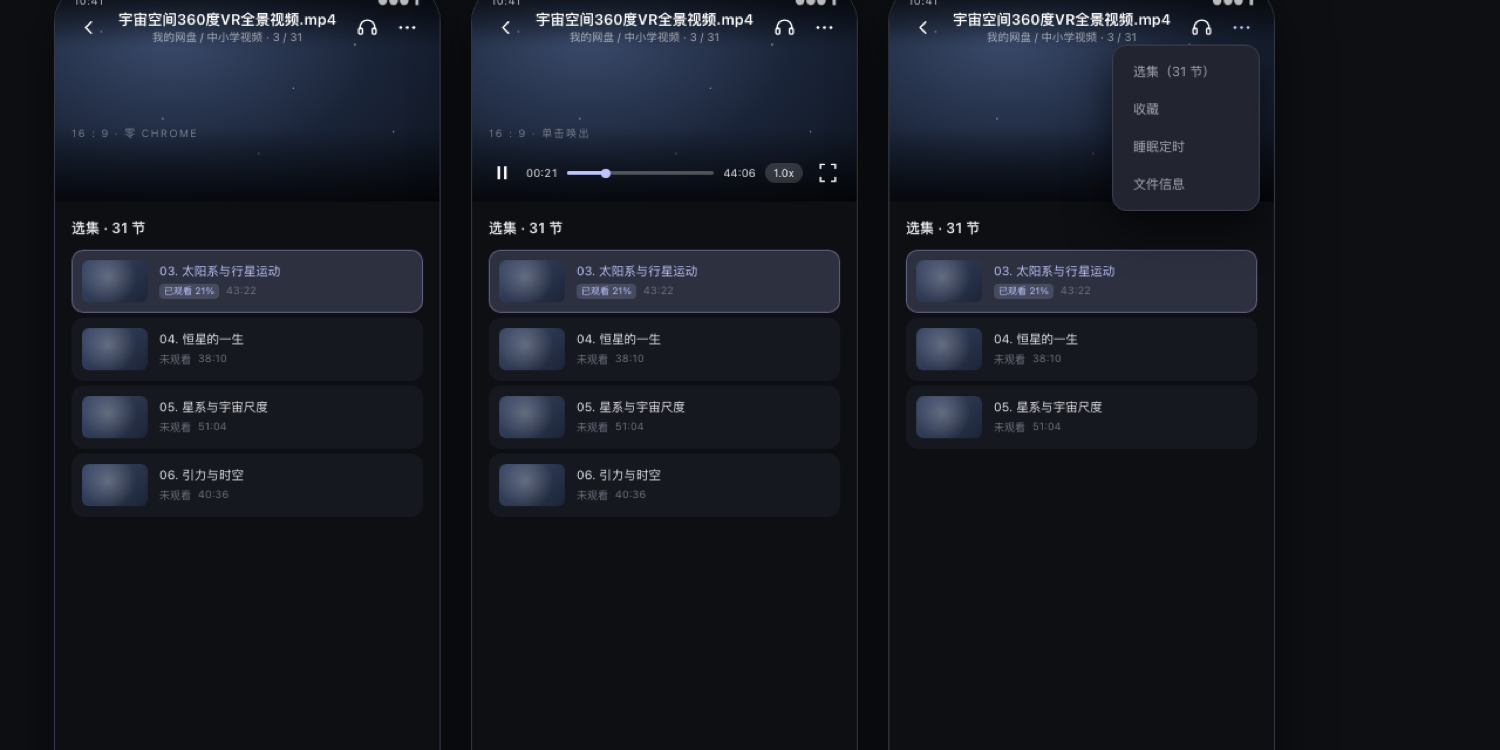
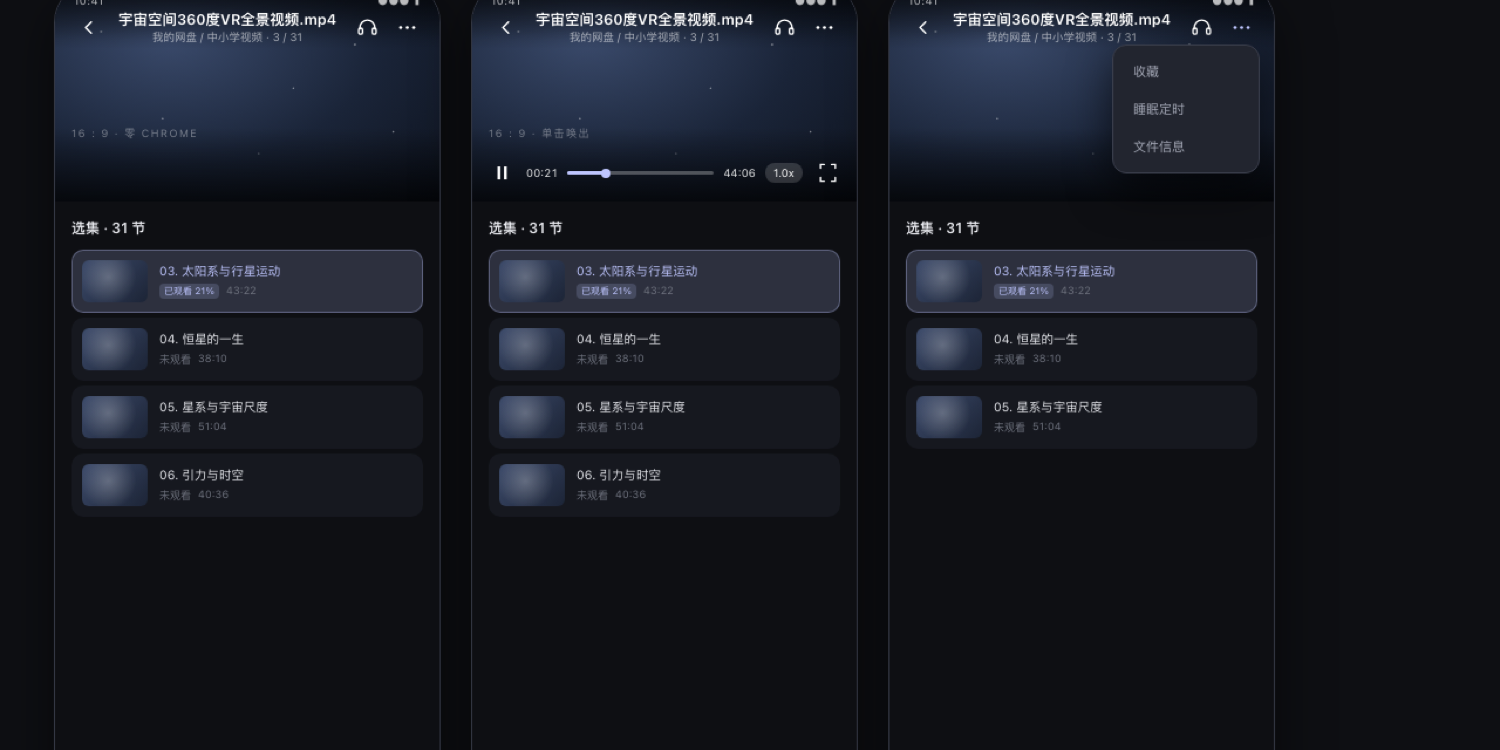
fix(prototype): 竖屏 ··· 移除重复的「选集」入口
- 竖屏画面下方课程列表已常驻，菜单再放选集是重复（与现有 courseButton 只在横屏显示的逻辑一致）
- 竖屏 ··· 只剩 收藏 / 睡眠定时 / 文件信息 三项
- 横屏无列表，选集保留在单行控制条右端（夸克横屏同位）
- 方案同步 4.1 图示、动作集合、P3、验收清单；重渲染截图

Changed region(s): [[0.736, 0.184, 0.8587, 0.3067], [0.7667, 0.092, 0.7973, 0.1533]]

diff --git a/docs/媒体页改造-新原型.html b/docs/媒体页改造-新原型.html
@@ -266,7 +266,6 @@ tr:last-child td{border-bottom:none}
         <div class="t1">正在以音频模式播放</div><div class="t2">画面已收起 · 可锁屏或切到后台继续听</div>
       </div>
       <div class="menu more-menu" id="more1">
-        <div data-menu-close>选集（31 节）</div>
         <div data-fav>收藏</div>
         <div data-menu-close>睡眠定时</div>
         <div data-menu-close>文件信息</div>
@@ -311,7 +310,6 @@ tr:last-child td{border-bottom:none}
         <div class="t1">正在以音频模式播放</div><div class="t2">画面已收起 · 可锁屏或切到后台继续听</div>
       </div>
       <div class="menu more-menu" id="more2">
-        <div data-menu-close>选集（31 节）</div>
         <div data-fav>收藏</div>
         <div data-menu-close>睡眠定时</div>
         <div data-menu-close>文件信息</div>
@@ -343,18 +341,17 @@ tr:last-child td{border-bottom:none}
         <div class="t1">正在以音频模式播放</div><div class="t2">画面已收起 · 可锁屏或切到后台继续听</div>
       </div>
       <div class="menu more-menu show" id="more3">
-        <div data-menu-close>选集（31 节）</div>
         <div data-fav>收藏</div>
         <div data-menu-close>睡眠定时</div>
         <div data-menu-close>文件信息</div>
       </div>
     </div></div>
-    <p class="cap"><b>··· 弹层</b>选集 / 收藏 / 定时 / 文件信息；转音频已提到顶栏常驻耳机</p>
+    <p class="cap"><b>··· 弹层</b>收藏 / 定时 / 文件信息；下方已有课程列表，不再放选集；转音频常驻顶栏</p>
   </div>
 </div>
 
 <h2 class="sec">二、视频 · 横屏</h2>
-<p class="sub">四槽全部叠加在画面上，控制条仍是同一行、叠在画面底部；横屏不设「转音频」（语义与看满屏互斥）。</p>
+<p class="sub">四槽全部叠加在画面上，控制条仍是同一行、叠在画面底部；横屏没有课程列表，所以「选集」保留在控制条右端；不设「转音频」（语义与看满屏互斥）。</p>
 <div class="row">
   <div class="unit" style="width:700px">
     <div class="phone land"><div class="screen controls-on" id="l1">
@@ -509,7 +506,7 @@ tr:last-child td{border-bottom:none}
 <div class="rules">
   <div class="rule"><div class="n">P1</div><h3>一屏一个主体</h3><p>视频是画面、音频是圆形封面、图片是原图。课程列表、来源/状态、多余文字全部收走。</p></div>
   <div class="rule"><div class="n">P2</div><h3>控制一行、沉到底部</h3><p>视频三行控制层压成一行并<b>叠在画面内底部</b>，不再占位；音频动作栏 + 进度 + 传输组集中在底部一坨，中间大留白。</p></div>
-  <div class="rule"><div class="n">P3</div><h3>顶栏轻、动作收进 ···</h3><p>透明 scrim + 两行标题；<b>高频的转音频常驻顶栏耳机</b>，选集/收藏/定时/文件信息进弹层。</p></div>
+  <div class="rule"><div class="n">P3</div><h3>顶栏轻、动作收进 ···</h3><p>透明 scrim + 两行标题；<b>高频的转音频常驻顶栏耳机</b>，低频的收藏/定时/文件信息进弹层；竖屏已有课程列表，不重复放入口。</p></div>
 </div>
 <table>
   <tr><th>夸克有，我们</th><th>判定</th><th>原因</th></tr>

diff --git a/docs/媒体页改造方案-基于实际能力.md b/docs/媒体页改造方案-基于实际能力.md
@@ -88,7 +88,7 @@
 |---|---|---|
 | **P1 一屏一个主体** | 视频满屏画面 / 音频唱片 / 图片原图，其余收进抽屉 | 去掉音频常驻课程列表、来源/状态两行；视频不做 Tab；图片不加信息面板 |
 | **P2 控制尽量一行、集中在底部** | 视频单行控制条；音频底部一坨 | 视频控制层三行 → 一行；音频控制全部沉底，中间留白 |
-| **P3 顶栏轻、动作收进更多** | 透明、两行标题、`···` | 顶栏改透明 + 两行标题；低频动作收进 `···` 弹层，**唯独高频的转音频常驻顶栏耳机** |
+| **P3 顶栏轻、动作收进更多** | 透明、两行标题、`···` | 顶栏改透明 + 两行标题；低频动作收进 `···` 弹层，**唯独高频的转音频常驻顶栏耳机**；竖屏已有列表，不重复放选集 |
 
 **不采用夸克的地方（必须写清）**
 
@@ -110,14 +110,15 @@ A 顶栏 48dp（透明 + 顶部 scrim）
 B 内容：16:9 画面，全出血，零常驻 chrome
     └ 单击唤出（3 秒收起）：C' 单行控制条【叠在画面内底部，不占布局高度】
         ⏸  00:21 ─────●───── 44:06   1.0x   ⛶
-      （收藏 / 定时 / 选集 / 文件信息 → 顶栏 ··· 弹层）
+      （收藏 / 定时 / 文件信息 → 顶栏 ··· 弹层；竖屏列表已常驻，不再放选集）
 D 课程列表：位置恒定（top = 画面下沿），显隐不改变任何占位 → 无空白
 ```
 
 - **改动落点**：`VideoPlaybackPage.kt:212-350`（动作 cell / 传输组）、`:554-560`（topBar）、`app/src/main/res/layout/view_video_controls.xml`（把进度行与动作槽合并成一行）。
 - **叠加的关键**：`arrangePlayer()` 里把 `videoFrame.bottomMargin` 从 `controlsHeight` 改为 **0**，画面渲染区铺满 stage，PlayerView 的 bottom bar 自然叠在画面底部（夸克真机的做法）。叠加后不再需要 `:629` 的 `reserve = if (controllerVisible) ...` 动态让位逻辑，可一并简化；课程列表的 `listTop` 固定为画面下沿。
 - **可读性**：画面底部保留渐变 scrim（`v-frame` 已有），保证亮画面下白字时间与轨道可读。
-- **动作集合**：控制条只留 `播放/暂停 · 进度 · 倍速 · 全屏`；`选集 / 收藏 / 定时 / 文件信息` 进 `···` 弹层。
+- **动作集合**：控制条只留 `播放/暂停 · 进度 · 倍速 · 全屏`；`···` 弹层只放 `收藏 / 定时 / 文件信息` 三项。
+- **竖屏不再放「选集」入口**：画面下方课程列表已常驻，再放一个入口是重复（现代码 `courseButton.root.visibility` 也只在横屏才显示，方向一致）。**横屏没有列表，选集保留在单行控制条右端**（与夸克横屏的「选集」文字按钮同位）。
 - **转音频常驻**：用户高频使用，不藏菜单——**竖屏顶栏 `···` 左侧固定一个耳机按钮**（`R.drawable.ic_headset`），点击切音频态并高亮，再点恢复画面；`···` 菜单里不再重复这一项。仍只在竖屏视频页出现，**横屏与音频页都不设**（转音频的语义是收起画面，与横屏看满屏互斥）。
 - 实现上复用现有 `listening / setListening() / audioStage`（`VideoPlaybackPage.kt:238-250`、`:163-211`），只是把触发点从 D 槽/菜单搬回顶栏，逻辑不用重写。
 - **选集列表**：复用 `loadRecentThumbnail()` 加缩略图；可显示「已观看 X%」（本地进度），**不显示超清/时长**。
@@ -193,6 +194,7 @@ C 动作栏 66dp，图标 24 + 标签 10.5sp
 ## 七、验收清单
 
 - [ ] 竖屏顶栏有常驻耳机按钮，点一下切音频态并高亮、再点恢复；横屏无此按钮
+- [ ] 竖屏 `···` 菜单不含「选集」（下方列表已常驻）；横屏控制条右端有「选集」入口
 - [ ] 视频控制层只占一行且**叠在 16:9 画面内底部**，画面下沿与课程列表上沿重合
 - [ ] 控制层显隐不改变任何布局高度，收起后画面零 chrome、无空白黑条
 - [ ] 顶栏透明，亮画面下标题仍可读（scrim）
